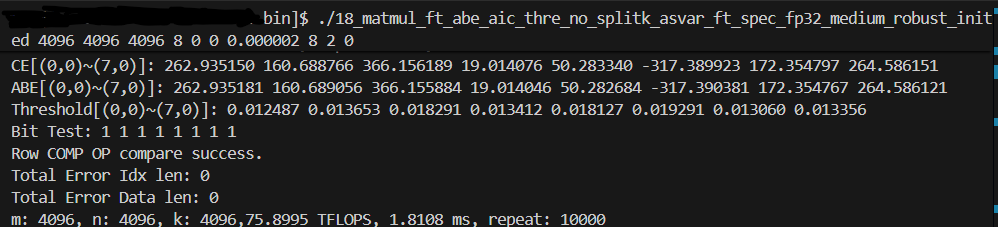
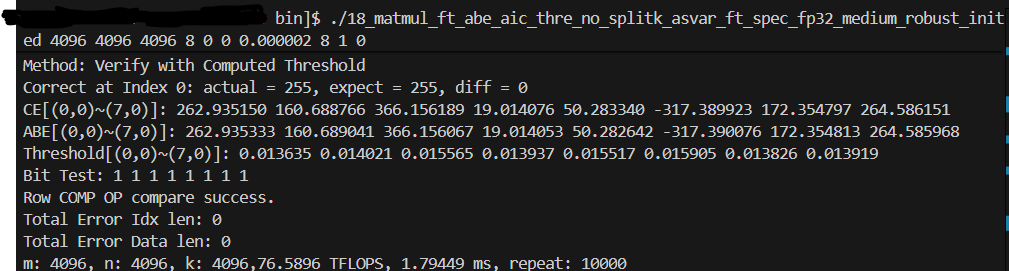
add examples

diff --git a/include/catlass/gemv/tile/tile_threshold_robust.hpp b/include/catlass/gemv/tile/tile_threshold_robust.hpp
@@ -81,12 +81,15 @@ struct TileThreCalc<Arch::AtlasA2,
             int32_t(m_actual) * 5
         );
 
+        AscendC::PipeBarrier<PIPE_V>();
+
         /*
         template <typename T>
         __aicore__ inline void Abs(
             const LocalTensor<T>& dstLocal, 
             const LocalTensor<T>& srcLocal, const int32_t& calCount)
         */
+
         AscendC::MulAddDst<ElementY, ElementX>(
             thre_workspace[2 * m_actual],
             srcStdTensor,
@@ -310,6 +313,8 @@ struct TileThreCalc<Arch::AtlasA2,
             int32_t(m_actual) * 5
         );
 
+        AscendC::PipeBarrier<PIPE_V>();
+
         /*
         template <typename T>
         __aicore__ inline void Abs(
@@ -413,7 +418,7 @@ struct TileThreCalc<Arch::AtlasA2,
                 thre_workspace[2 * m_actual], 
                 m_actual);
 
-        AscendC::Abs(thre_workspace, thre_workspace, m_actual);
+        // AscendC::Abs(thre_workspace, thre_workspace, m_actual);
         
         AscendC::PipeBarrier<PIPE_V>();
         AscendC::Abs(thre_workspace, thre_workspace, m_actual);
@@ -530,6 +535,8 @@ struct TileThreCalc<Arch::AtlasA2,
             (ElementY)0.0,
             int32_t(m_actual) * 5
         );
+
+        AscendC::PipeBarrier<PIPE_V>();
 
         /*
         template <typename T>

diff --git a/examples/18_matmul_ft_abe_aic_thre_no_splitk_asvar_ft_spec_bf16_medium_robust_inited/matmual_ft.cpp b/examples/18_matmul_ft_abe_aic_thre_no_splitk_asvar_ft_spec_bf16_medium_robust_inited/matmual_ft.cpp
@@ -889,7 +889,7 @@ void Run(Options options) {
         bool outputThre; bool outputCE; uint32_t SplitKNum;
     };
     */
-    float use_emax = options.e_max * 3.0f;
+    float use_emax = options.e_max * 1.0f;
     if(k <= 1024){
         use_emax = use_emax * 1.0f;
     }else{
@@ -1129,7 +1129,7 @@ void Run(Options options) {
         options.problemShape.n(), L1TileShape::N,
         hostA, layoutA, hostAMeanGolden, hostAMaxGolden, 
         hostAMinGolden, hostAStdGolden,hostAMeanAbsGolden,
-        hostThreGolden, options.e_max, rce_thre_type);
+        hostThreGolden, use_emax, rce_thre_type);
 
     // std::vector<GemvOutTypeC> hostAStdGolden(lenThre);
 
@@ -1139,7 +1139,7 @@ void Run(Options options) {
     //      hostAStdGolden, hostThreGolden, options.e_max, rce_thre_type);
 
     
-    errorIndices = golden::CompareData(hostThreGolden, hostThreGolden, lenThre);
+    errorIndices = golden::CompareData(hostThre, hostThreGolden, lenThre);
     if (errorIndices.empty()) {
         std::cout << "Threshold Compare success." << std::endl;
     } else {

diff --git a/examples/18_matmul_ft_abe_aic_thre_no_splitk_asvar_ft_spec_bf16_large_robust_inited/matmual_ft.cpp b/examples/18_matmul_ft_abe_aic_thre_no_splitk_asvar_ft_spec_bf16_large_robust_inited/matmual_ft.cpp
@@ -890,7 +890,7 @@ void Run(Options options) {
     };
     */
 
-    float use_emax = options.e_max * 3.0f;
+    float use_emax = options.e_max * 1.0f;
     if(k <= 1024){
         use_emax = use_emax * 1.0f;
     }else{
@@ -1124,7 +1124,7 @@ void Run(Options options) {
         options.problemShape.n(), L1TileShape::N,
         hostA, layoutA, hostAMeanGolden, hostAMaxGolden, 
         hostAMinGolden, hostAStdGolden,hostAMeanAbsGolden,
-        hostThreGolden, options.e_max, rce_thre_type);
+        hostThreGolden, use_emax, rce_thre_type);
 
     // std::vector<GemvOutTypeC> hostAStdGolden(lenThre);
 
@@ -1134,7 +1134,7 @@ void Run(Options options) {
     //      hostAStdGolden, hostThreGolden, options.e_max, rce_thre_type);
 
     
-    errorIndices = golden::CompareData(hostThreGolden, hostThreGolden, lenThre);
+    errorIndices = golden::CompareData(hostThre, hostThreGolden, lenThre);
     if (errorIndices.empty()) {
         std::cout << "Threshold Compare success." << std::endl;
     } else {

diff --git a/examples/18_matmul_ft_abe_aic_thre_no_splitk_asvar_ft_spec_bf16_small_robust_inited/matmual_ft.cpp b/examples/18_matmul_ft_abe_aic_thre_no_splitk_asvar_ft_spec_bf16_small_robust_inited/matmual_ft.cpp
@@ -890,7 +890,7 @@ void Run(Options options) {
     };
     */
 
-    float use_emax = options.e_max * 3.0f;
+    float use_emax = options.e_max * 1.0f;
     if(k <= 1024){
         use_emax = use_emax * 1.0f;
     }else{
@@ -1123,7 +1123,7 @@ void Run(Options options) {
         options.problemShape.n(), L1TileShape::N,
         hostA, layoutA, hostAMeanGolden, hostAMaxGolden, 
         hostAMinGolden, hostAStdGolden,hostAMeanAbsGolden,
-        hostThreGolden, options.e_max, rce_thre_type);
+        hostThreGolden, use_emax, rce_thre_type);
 
     // std::vector<GemvOutTypeC> hostAStdGolden(lenThre);
 
@@ -1133,7 +1133,7 @@ void Run(Options options) {
     //      hostAStdGolden, hostThreGolden, options.e_max, rce_thre_type);
 
     
-    errorIndices = golden::CompareData(hostThreGolden, hostThreGolden, lenThre);
+    errorIndices = golden::CompareData(hostThre, hostThreGolden, lenThre);
     if (errorIndices.empty()) {
         std::cout << "Threshold Compare success." << std::endl;
     } else {

diff --git a/examples/18_matmul_ft_abe_aic_thre_no_splitk_asvar_ft_spec_fp32_large_robust_inited/matmual_ft.cpp b/examples/18_matmul_ft_abe_aic_thre_no_splitk_asvar_ft_spec_fp32_large_robust_inited/matmual_ft.cpp
@@ -894,7 +894,7 @@ void Run(Options options) {
     };
     */
 
-    float use_emax = options.e_max * 3.0f;
+    float use_emax = options.e_max * 1.0f;
     if(k <= 1024){
         use_emax = use_emax * 1.0f;
     }else{
@@ -1127,7 +1127,7 @@ void Run(Options options) {
         options.problemShape.n(), L1TileShape::N,
         hostA, layoutA, hostAMeanGolden, hostAMaxGolden, 
         hostAMinGolden, hostAStdGolden,hostAMeanAbsGolden,
-        hostThreGolden, options.e_max, rce_thre_type);
+        hostThreGolden, use_emax, rce_thre_type);
 
     // std::vector<GemvOutTypeC> hostAStdGolden(lenThre);
 
@@ -1137,7 +1137,7 @@ void Run(Options options) {
     //      hostAStdGolden, hostThreGolden, options.e_max, rce_thre_type);
 
     
-    errorIndices = golden::CompareData(hostThreGolden, hostThreGolden, lenThre);
+    errorIndices = golden::CompareData(hostThre, hostThreGolden, lenThre);
     if (errorIndices.empty()) {
         std::cout << "Threshold Compare success." << std::endl;
     } else {

diff --git a/examples/18_matmul_ft_abe_aic_thre_no_splitk_asvar_ft_spec_fp32_medium_robust_inited/matmual_ft.cpp b/examples/18_matmul_ft_abe_aic_thre_no_splitk_asvar_ft_spec_fp32_medium_robust_inited/matmual_ft.cpp
@@ -895,7 +895,7 @@ void Run(Options options) {
     };
     */
 
-    float use_emax = options.e_max * 3.0f;
+    float use_emax = options.e_max * 1.0f;
     if(k <= 1024){
         use_emax = use_emax * 1.0f;
     }else{
@@ -1128,7 +1128,7 @@ void Run(Options options) {
         options.problemShape.n(), L1TileShape::N,
         hostA, layoutA, hostAMeanGolden, hostAMaxGolden, 
         hostAMinGolden, hostAStdGolden,hostAMeanAbsGolden,
-        hostThreGolden, options.e_max, rce_thre_type);
+        hostThreGolden, use_emax, rce_thre_type);
 
     // std::vector<GemvOutTypeC> hostAStdGolden(lenThre);
 
@@ -1138,7 +1138,7 @@ void Run(Options options) {
     //      hostAStdGolden, hostThreGolden, options.e_max, rce_thre_type);
 
     
-    errorIndices = golden::CompareData(hostThreGolden, hostThreGolden, lenThre);
+    errorIndices = golden::CompareData(hostThre, hostThreGolden, lenThre);
     if (errorIndices.empty()) {
         std::cout << "Threshold Compare success." << std::endl;
     } else {

diff --git a/examples/18_matmul_ft_abe_aic_thre_no_splitk_asvar_ft_spec_fp32_small_robust_inited/matmual_ft.cpp b/examples/18_matmul_ft_abe_aic_thre_no_splitk_asvar_ft_spec_fp32_small_robust_inited/matmual_ft.cpp
@@ -895,7 +895,7 @@ void Run(Options options) {
     };
     */
 
-    float use_emax = options.e_max * 3.0f;
+    float use_emax = options.e_max * 1.0f;
     if(k <= 1024){
         use_emax = use_emax * 1.0f;
     }else{
@@ -1128,7 +1128,7 @@ void Run(Options options) {
         options.problemShape.n(), L1TileShape::N,
         hostA, layoutA, hostAMeanGolden, hostAMaxGolden, 
         hostAMinGolden, hostAStdGolden,hostAMeanAbsGolden,
-        hostThreGolden, options.e_max, rce_thre_type);
+        hostThreGolden, use_emax, rce_thre_type);
 
     // std::vector<GemvOutTypeC> hostAStdGolden(lenThre);
 
@@ -1138,7 +1138,7 @@ void Run(Options options) {
     //      hostAStdGolden, hostThreGolden, options.e_max, rce_thre_type);
 
     
-    errorIndices = golden::CompareData(hostThreGolden, hostThreGolden, lenThre);
+    errorIndices = golden::CompareData(hostThre, hostThreGolden, lenThre);
     if (errorIndices.empty()) {
         std::cout << "Threshold Compare success." << std::endl;
     } else {

diff --git a/examples/18_matmul_ft_abe_aic_thre_no_splitk_asvar_ft_spec_bf16_medium_simple_inited/matmual_ft.cpp b/examples/18_matmul_ft_abe_aic_thre_no_splitk_asvar_ft_spec_bf16_medium_simple_inited/matmual_ft.cpp
@@ -896,7 +896,7 @@ void Run(Options options) {
     };
     */
 
-    float use_emax = options.e_max * 3.0f;
+    float use_emax = options.e_max * 1.0f;
     if(k <= 1024){
         use_emax = use_emax * 1.0f;
     }else{
@@ -1133,7 +1133,7 @@ void Run(Options options) {
         options.problemShape.n(), L1TileShape::N,
         hostA, layoutA, hostAMeanGolden, hostAMaxGolden, 
         hostAMinGolden, hostAStdGolden,hostAMeanAbsGolden,
-        hostThreGolden, options.e_max, rce_thre_type, options.useLogRatio);
+        hostThreGolden, use_emax, rce_thre_type, options.useLogRatio);
 
     // std::vector<GemvOutTypeC> hostAStdGolden(lenThre);
 

diff --git a/examples/18_matmul_ft_abe_aic_thre_no_splitk_asvar_ft_spec_bf16_small_simple_inited/matmual_ft.cpp b/examples/18_matmul_ft_abe_aic_thre_no_splitk_asvar_ft_spec_bf16_small_simple_inited/matmual_ft.cpp
@@ -898,7 +898,7 @@ void Run(Options options) {
     };
     */
 
-    float use_emax = options.e_max * 3.0f;
+    float use_emax = options.e_max * 1.0f;
     if(k <= 1024){
         use_emax = use_emax * 1.0f;
     }else{
@@ -1134,7 +1134,7 @@ void Run(Options options) {
         options.problemShape.n(), L1TileShape::N,
         hostA, layoutA, hostAMeanGolden, hostAMaxGolden, 
         hostAMinGolden, hostAStdGolden,hostAMeanAbsGolden,
-        hostThreGolden, options.e_max, rce_thre_type, options.useLogRatio);
+        hostThreGolden, use_emax, rce_thre_type, options.useLogRatio);
 
     // std::vector<GemvOutTypeC> hostAStdGolden(lenThre);
 

diff --git a/examples/18_matmul_ft_abe_aic_thre_no_splitk_asvar_ft_spec_fp32_small_simple_inited/matmual_ft.cpp b/examples/18_matmul_ft_abe_aic_thre_no_splitk_asvar_ft_spec_fp32_small_simple_inited/matmual_ft.cpp
@@ -900,7 +900,7 @@ void Run(Options options) {
     };
     */
 
-    float use_emax = options.e_max * 3.0f;
+    float use_emax = options.e_max * 1.0f;
     if(k <= 1024){
         use_emax = use_emax * 1.0f;
     }else{
@@ -1136,7 +1136,7 @@ void Run(Options options) {
         options.problemShape.n(), L1TileShape::N,
         hostA, layoutA, hostAMeanGolden, hostAMaxGolden, 
         hostAMinGolden, hostAStdGolden,hostAMeanAbsGolden,
-        hostThreGolden, options.e_max, rce_thre_type, options.useLogRatio);
+        hostThreGolden, use_emax, rce_thre_type, options.useLogRatio);
 
     // std::vector<GemvOutTypeC> hostAStdGolden(lenThre);
 
